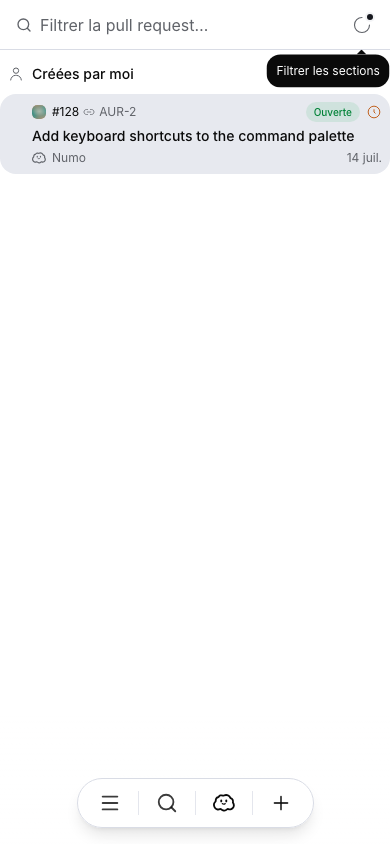
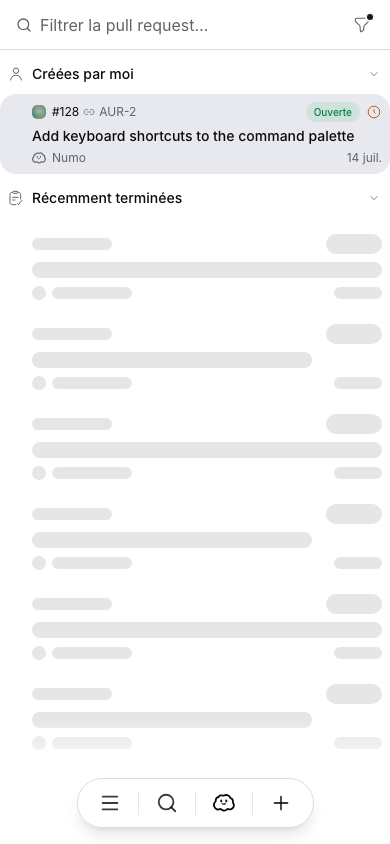
fix: show pull request loading skeletons in the sidebar

diff --git a/components/pull-requests/pull-requests-page.tsx b/components/pull-requests/pull-requests-page.tsx
@@ -30,6 +30,7 @@ import { AppTooltip } from "@/components/ui/app-tooltip";
 import { ProjectOrb } from "@/components/project-orb";
 import { projectOrbSeed } from "@/lib/project-orb-colors";
 import {
+  COMPLETED_PULL_REQUESTS_PAGE,
   DEFAULT_PULL_REQUEST_SECTIONS,
   PULL_REQUEST_SECTIONS,
   pullRequestSection,
@@ -111,11 +112,9 @@ const SECTION_ICONS = {
 /** Sections are independent toggles; changing one keeps the menu open. */
 function PrFilterMenu({
   sections,
-  fetching,
   onToggle,
 }: {
   sections: ReadonlySet<string>;
-  fetching: boolean;
   onToggle: (section: PullRequestSection) => void;
 }) {
   const t = useTranslations("PullRequests");
@@ -134,14 +133,9 @@ function PrFilterMenu({
           size="icon-sm"
           className={cn(SIDEBAR_COMPACT_CONTROL_CLASS, "-mr-2")}
           aria-label={t("filterSections")}
-          aria-busy={fetching}
         >
           <span className="relative flex items-center justify-center">
-            {fetching ? (
-              <Spinner aria-hidden className="size-[18px]" data-testid="pr-filter-loading" />
-            ) : (
-              <HugeiconsIcon icon={FilterIcon} className="size-[18px]" />
-            )}
+            <HugeiconsIcon icon={FilterIcon} className="size-[18px]" />
             {active ? (
               <span aria-hidden className="absolute -top-0.5 -right-0.5 size-1.5 rounded-full bg-primary ring-2 ring-sidebar" />
             ) : null}
@@ -288,6 +282,7 @@ function PrGroupRows({
   onSelect,
   hasNextPage,
   fetchingNextPage,
+  loadingInitialPage,
   onLoadNextPage,
 }: {
   group: { key: PullRequestSection; items: PullRequestListItem[] };
@@ -304,6 +299,7 @@ function PrGroupRows({
   onSelect: (prId: string) => void;
   hasNextPage: boolean;
   fetchingNextPage: boolean;
+  loadingInitialPage: boolean;
   onLoadNextPage: () => void;
 }) {
   const tCommon = useTranslations("Common");
@@ -345,10 +341,14 @@ function PrGroupRows({
           onSelect={() => onSelect(pr.prId)}
         />
       ))}
+      {group.key === "completed" && (loadingInitialPage || fetchingNextPage) ? (
+        <div aria-busy="true" data-testid="pr-sidebar-loading">
+          <PrListSkeleton rows={COMPLETED_PULL_REQUESTS_PAGE} showHeading={false} />
+        </div>
+      ) : null}
       {group.key === "completed" && hasNextPage ? (
         <Button variant="ghost" size="sm" className="self-start ml-8" disabled={fetchingNextPage}
           onClick={onLoadNextPage} data-testid="pr-completed-load-more">
-          {fetchingNextPage ? <Spinner /> : null}
           {tCommon("showMore")}
         </Button>
       ) : null}
@@ -644,10 +644,13 @@ function PullRequestsPageInner() {
       : null,
   );
 
-  const groups = useMemo(
-    () => groupPullRequestsBySection(visible),
-    [visible],
-  );
+  const groups = useMemo(() => {
+    const grouped = groupPullRequestsBySection(visible);
+    if (sections.has("completed") && completed.isPending && !grouped.some((group) => group.key === "completed")) {
+      grouped.push({ key: "completed", items: [] });
+    }
+    return grouped;
+  }, [visible, sections, completed.isPending]);
   // A filter in progress UNFOLDS everything and lifts the cup of five: searching is
   // ask to see what fits, not to know where it is stored.
   const filtering = query.trim().length > 0;
@@ -724,7 +727,6 @@ function PullRequestsPageInner() {
         actions={
           <PrFilterMenu
             sections={sections}
-            fetching={fetching}
             onToggle={(section) => {
               consumeDeepLink();
               // Settle before toggling so a pinned target cannot restore a hidden section.
@@ -735,9 +737,11 @@ function PullRequestsPageInner() {
           />
         }
       >
-        {loading || (sections.has("completed") && completed.isPending && visible.length === 0) ? (
-          <PrListSkeleton />
-        ) : visible.length === 0 ? (
+        {loading ? (
+          <div aria-busy="true" data-testid="pr-sidebar-loading">
+            <PrListSkeleton />
+          </div>
+        ) : groups.length === 0 ? (
           <EmptyScene
             size="compact"
             icon={GitPullRequestIcon}
@@ -777,6 +781,7 @@ function PullRequestsPageInner() {
                 fmtDay={fmtDay}
                 hasNextPage={completed.hasNextPage}
                 fetchingNextPage={completed.isFetchingNextPage}
+                loadingInitialPage={completed.isPending}
                 onLoadNextPage={() => void completed.fetchNextPage()}
                 onToggle={() => toggleGroup(g.key)}
                 onShowAll={() => setExpandedGroups((prev) => toggledSet(prev, g.key))}
@@ -787,15 +792,19 @@ function PullRequestsPageInner() {
               />
             ))}
 
+            {active.loadingMore ? (
+              <div aria-busy="true" data-testid="pr-sidebar-loading">
+                <PrListSkeleton showHeading={false} />
+              </div>
+            ) : null}
             {hasMore ? (
               <Button
                 variant="ghost"
                 size="sm"
                 className="mt-2 self-center"
-                disabled={fetching}
+                disabled={active.fetching}
                 onClick={() => setLimit((n) => n + PULL_REQUESTS_PAGE)}
               >
-                {fetching ? <Spinner /> : null}
                 {t("loadMore")}
               </Button>
             ) : null}

diff --git a/components/pull-requests/pr-loading-skeleton.tsx b/components/pull-requests/pr-loading-skeleton.tsx
@@ -8,14 +8,19 @@ function Skeleton({ className, ...props }: ComponentProps<typeof BaseSkeleton>) 
 }
 
 /** Match the grouped sidebar rows, including their metadata and status badges. */
-export function PrListSkeleton() {
+export function PrListSkeleton({
+  rows = 5,
+  showHeading = true,
+}: { rows?: number; showHeading?: boolean }) {
   return (
     <div aria-hidden data-testid="pr-list-skeleton" className="flex flex-col gap-2 pt-2 pb-4">
-      <div className="flex items-center gap-2 px-2 py-1">
-        <Skeleton className="size-4 rounded" />
-        <Skeleton className="h-4 w-28" />
-      </div>
-      {Array.from({ length: 5 }, (_, i) => (
+      {showHeading ? (
+        <div className="flex items-center gap-2 px-2 py-1">
+          <Skeleton className="size-4 rounded" />
+          <Skeleton className="h-4 w-28" />
+        </div>
+      ) : null}
+      {Array.from({ length: rows }, (_, i) => (
         <div key={i} className="flex flex-col gap-2 rounded-lg py-2 pr-2 pl-8">
           <div className="flex items-center justify-between gap-3">
             <Skeleton className="h-3 w-20" />

diff --git a/lib/use-agent-runs.ts b/lib/use-agent-runs.ts
@@ -423,7 +423,7 @@ export function useAllPullRequestsQuery(
   limit: number = PULL_REQUESTS_PAGE,
   pin?: PullRequestPin,
 ) {
-  const { data, isPending, isFetching, refetch } = useQuery({
+  const { data, isPending, isFetching, isPlaceholderData, refetch } = useQuery({
     queryKey: allPullRequestsQueryKey(state, limit, pin),
     queryFn: ({ client }) => { assertPullRequestReadBudget(client); return fetchAllPullRequestsApi({ state, limit, pin }); },
     retry: pullRequestReadRetry,
@@ -440,6 +440,7 @@ export function useAllPullRequestsQuery(
     pullRequests: data?.pullRequests ?? [],
     hasMore: data?.hasMore ?? false,
     truncated: data?.truncated ?? false,
+    loadingMore: isFetching && isPlaceholderData,
     repoCount: data?.repoCount ?? 0,
     anyPr: data?.anyPr ?? false,
     loading: isPending,
